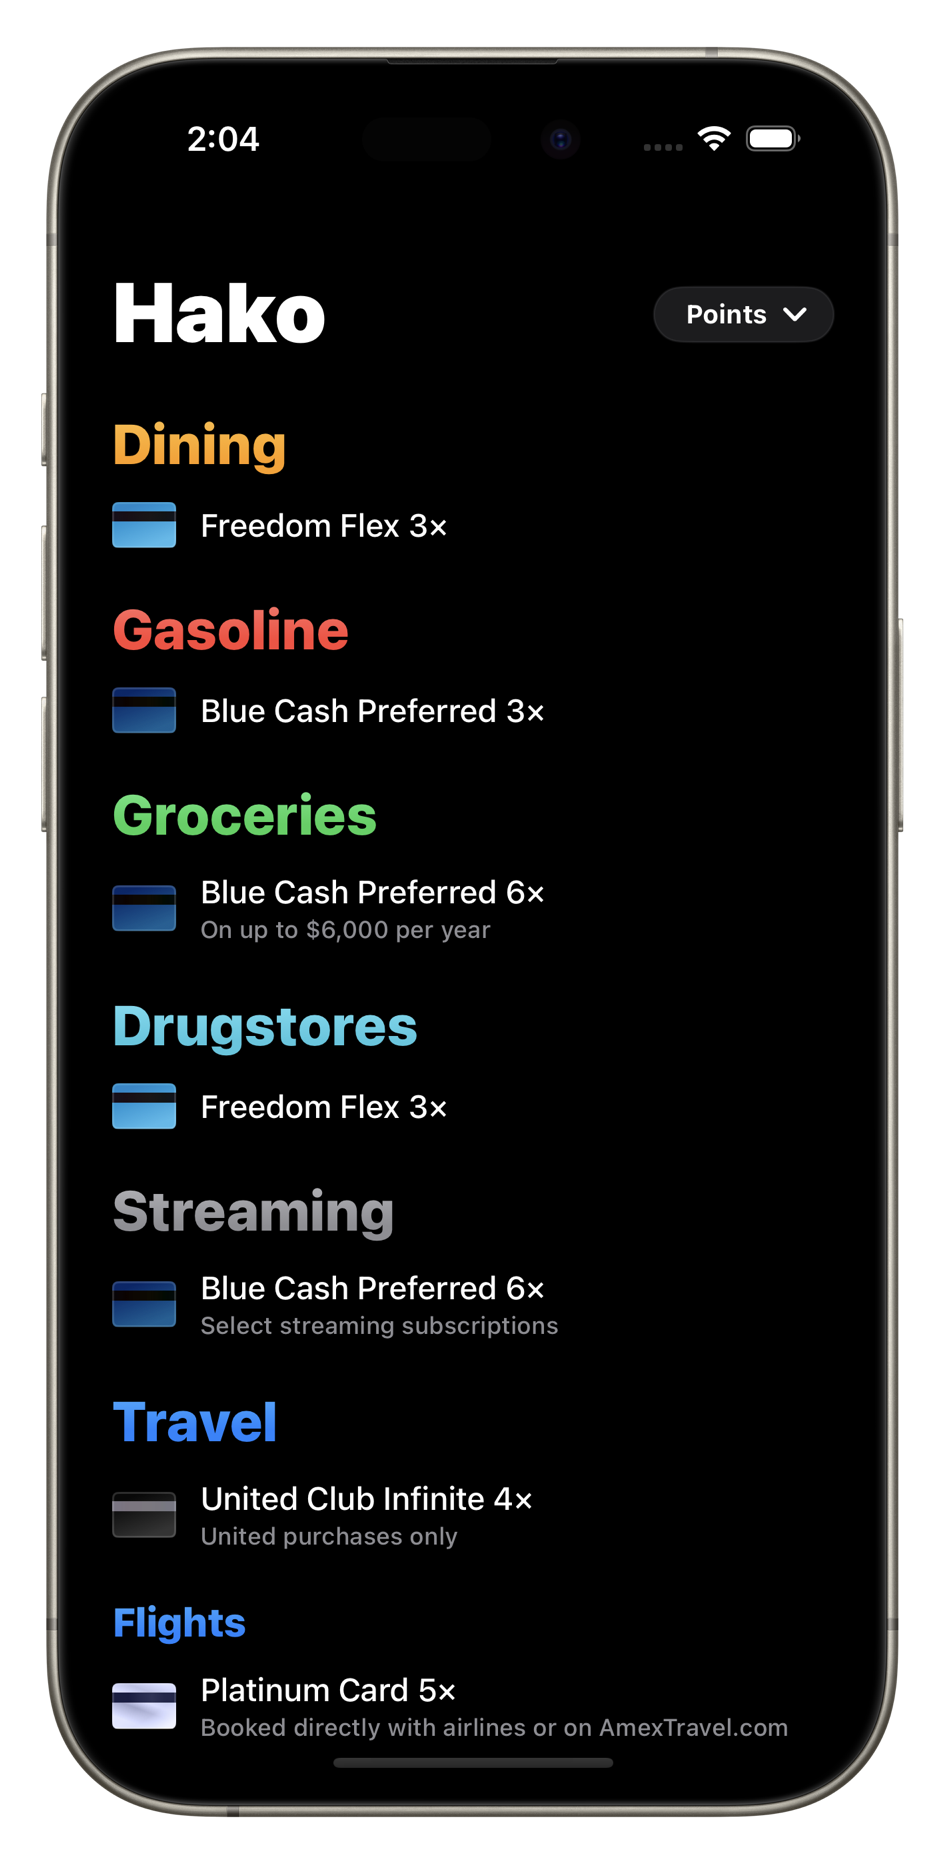
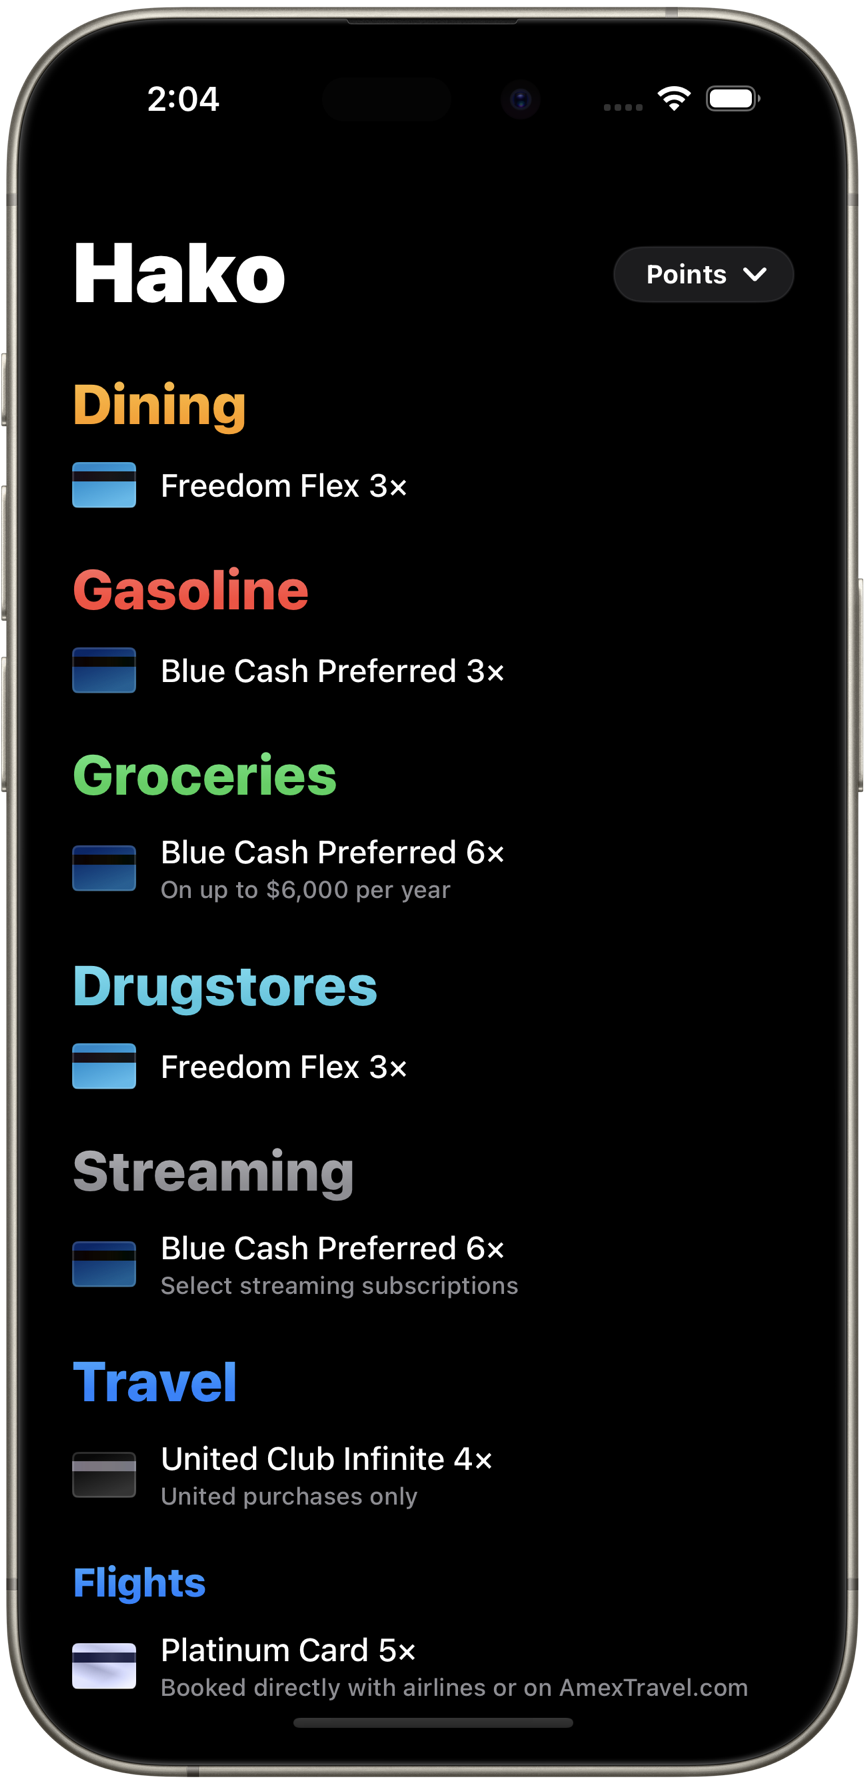
More

Changed region(s): [[0.0, 0.0, 0.9977, 1.0]]

diff --git a/index.html b/index.html
@@ -53,7 +53,7 @@
   <div class="header-container">
     <div class="container">
       <div class="row header-row">
-        <div class="five columns" style="display: inline-block; float: none; vertical-align: middle;">
+        <div class="six columns">
           <div class="icon-title-container">
             <picture>
               <source>
@@ -62,14 +62,19 @@
             <h1>Hako</h1>
           </div>
           <h4>Charmingly simple credit card points.</h4>
+          <ul>
+            <li>See your best card for each category.</li>
+            <li>Automatically combines points across supported cards, and includes redemption multipliers.</li>
+            <li>Simple, privacy-first design.
+          </ul>
           <br>
-          <!-- <a href="https://apps.apple.com/app/apple-store/id1534130193?pt=117796349&ct=pakuweb&mt=8"><img width="150px" src="images/app-store-badge.svg" alt="Download on the App Store"></a> -->
+          <a href=""><img width="150px" src="images/app-store-badge.svg" alt="Download on the App Store"></a>
         </div>
-        <div class="seven columns">
+        <div class="six columns">
           <div class="screenshot">
             <picture>
               <source srcset="images/hero-dark@1x.png, images/hero-dark@2x.png 2x, images/hero-dark@3x.png 3x" media="(prefers-color-scheme:dark)">
-              <img class="hero-img right-screenshot" srcset="images/hero@1x.png, images/hero@2x.png 2x, images/hero@3x.png 3x" src="images/hero@1x.png" alt="Screenshot of Hako showing a list of credit casrd spending categories with the best card for each category.">
+              <img class="hero-img" srcset="images/hero@1x.png, images/hero@2x.png 2x, images/hero@3x.png 3x" src="images/hero@1x.png" alt="Screenshot of Hako showing a list of credit casrd spending categories with the best card for each category.">
             </picture>
           </div>
         </div>

diff --git a/css/main.css b/css/main.css
@@ -2,7 +2,7 @@
     display: flex;
     align-items: center;
     gap: 20px;
-    margin-bottom: 40px;
+    margin-bottom: 2rem;
 }
 
 .gradient {
@@ -57,6 +57,7 @@
 
 .hero-img {
     width: 100%;
+    margin-top: 40px;
 }
 
 .screenshot-img {
@@ -69,6 +70,24 @@
 
 .screenshot-img-clipped-large {
     margin-bottom: -52%;
+}
+
+ul li:before {
+    content: "→ ";
+}
+
+li {
+    font-size: 1.4em;
+    letter-spacing: 0.02rem;
+    opacity: 0.8;
+    margin-bottom: 10px;
+}
+
+ul {
+   list-style: none;
+   margin-left: 0;
+   padding-left: 1.6em;
+   text-indent: -1.6em;
 }
 
 h1 {
@@ -88,7 +107,10 @@ h4 {
 }
 
 p {
+    font-size: 1.2em;
     letter-spacing: 0.02rem;
+    opacity: 0.8;
+    margin-bottom: 10px;
 }
 
 .pro-tag {
@@ -137,8 +159,9 @@ p {
   }
 
   .hero-img {
-    width: 60%;
-    padding-left: 20%;
+    width: 90%;
+    padding-left: 10%;
+    margin-top: 0;
   }
 
   .screenshot-img {
